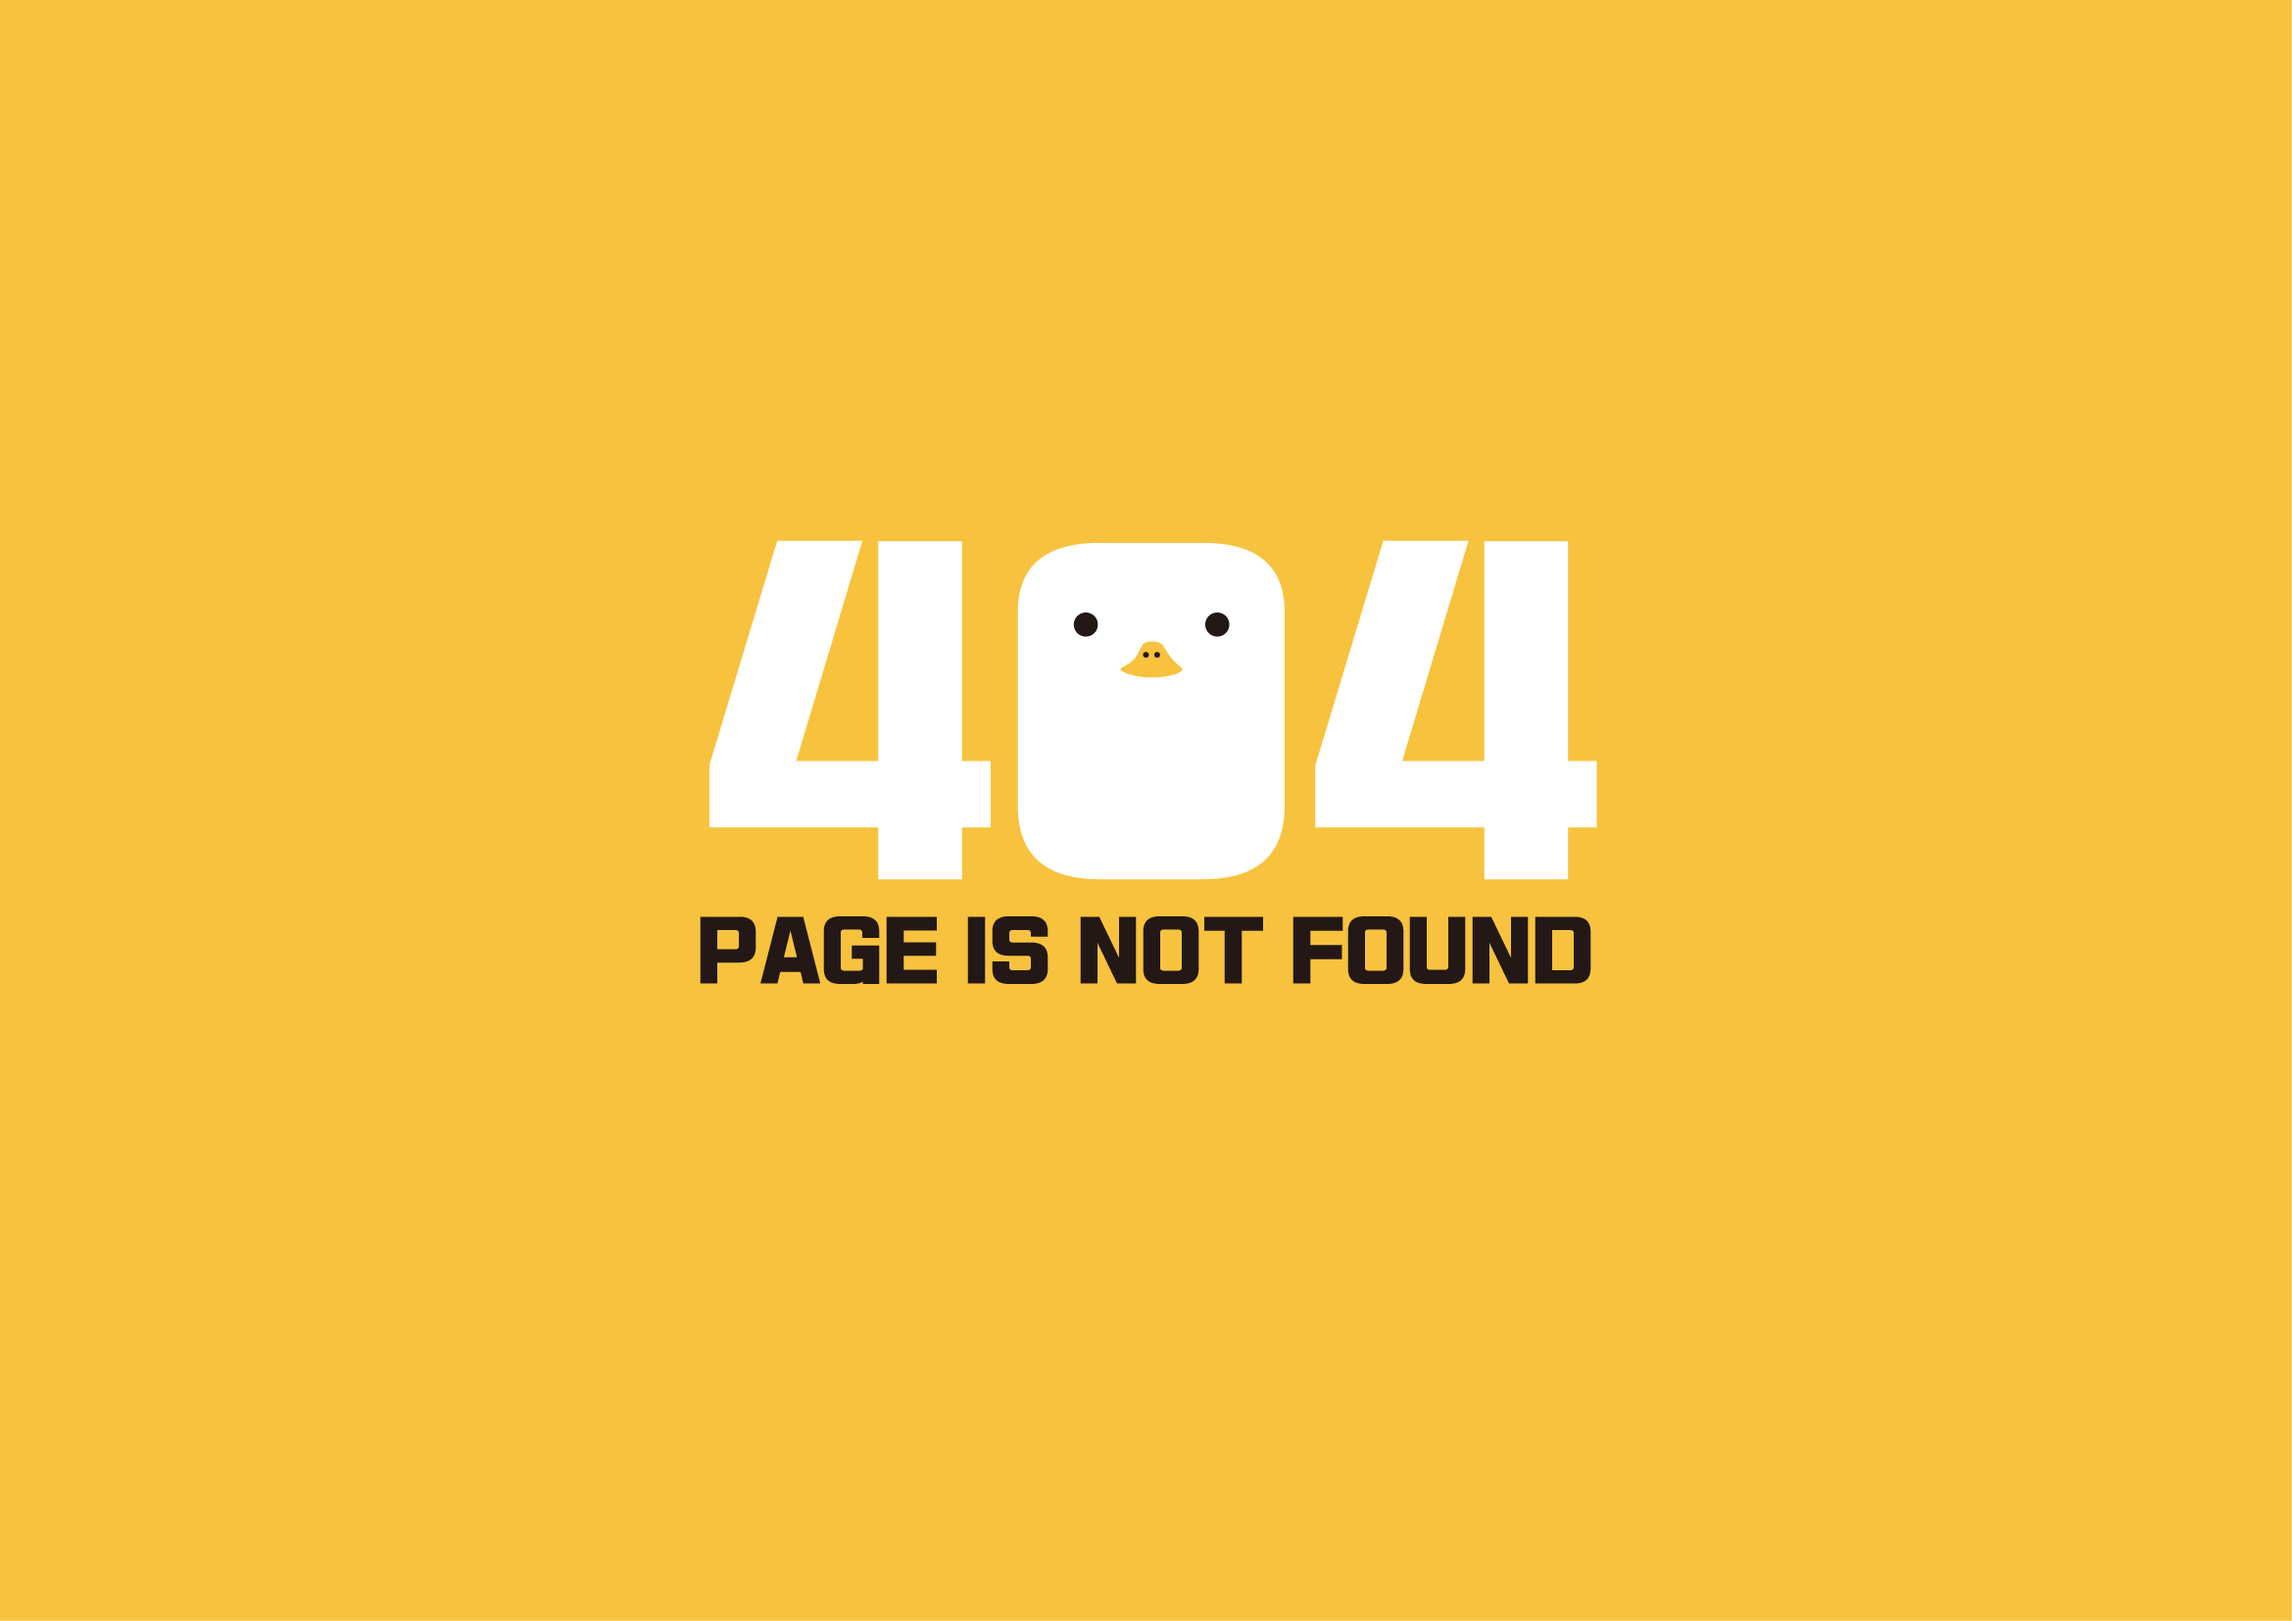
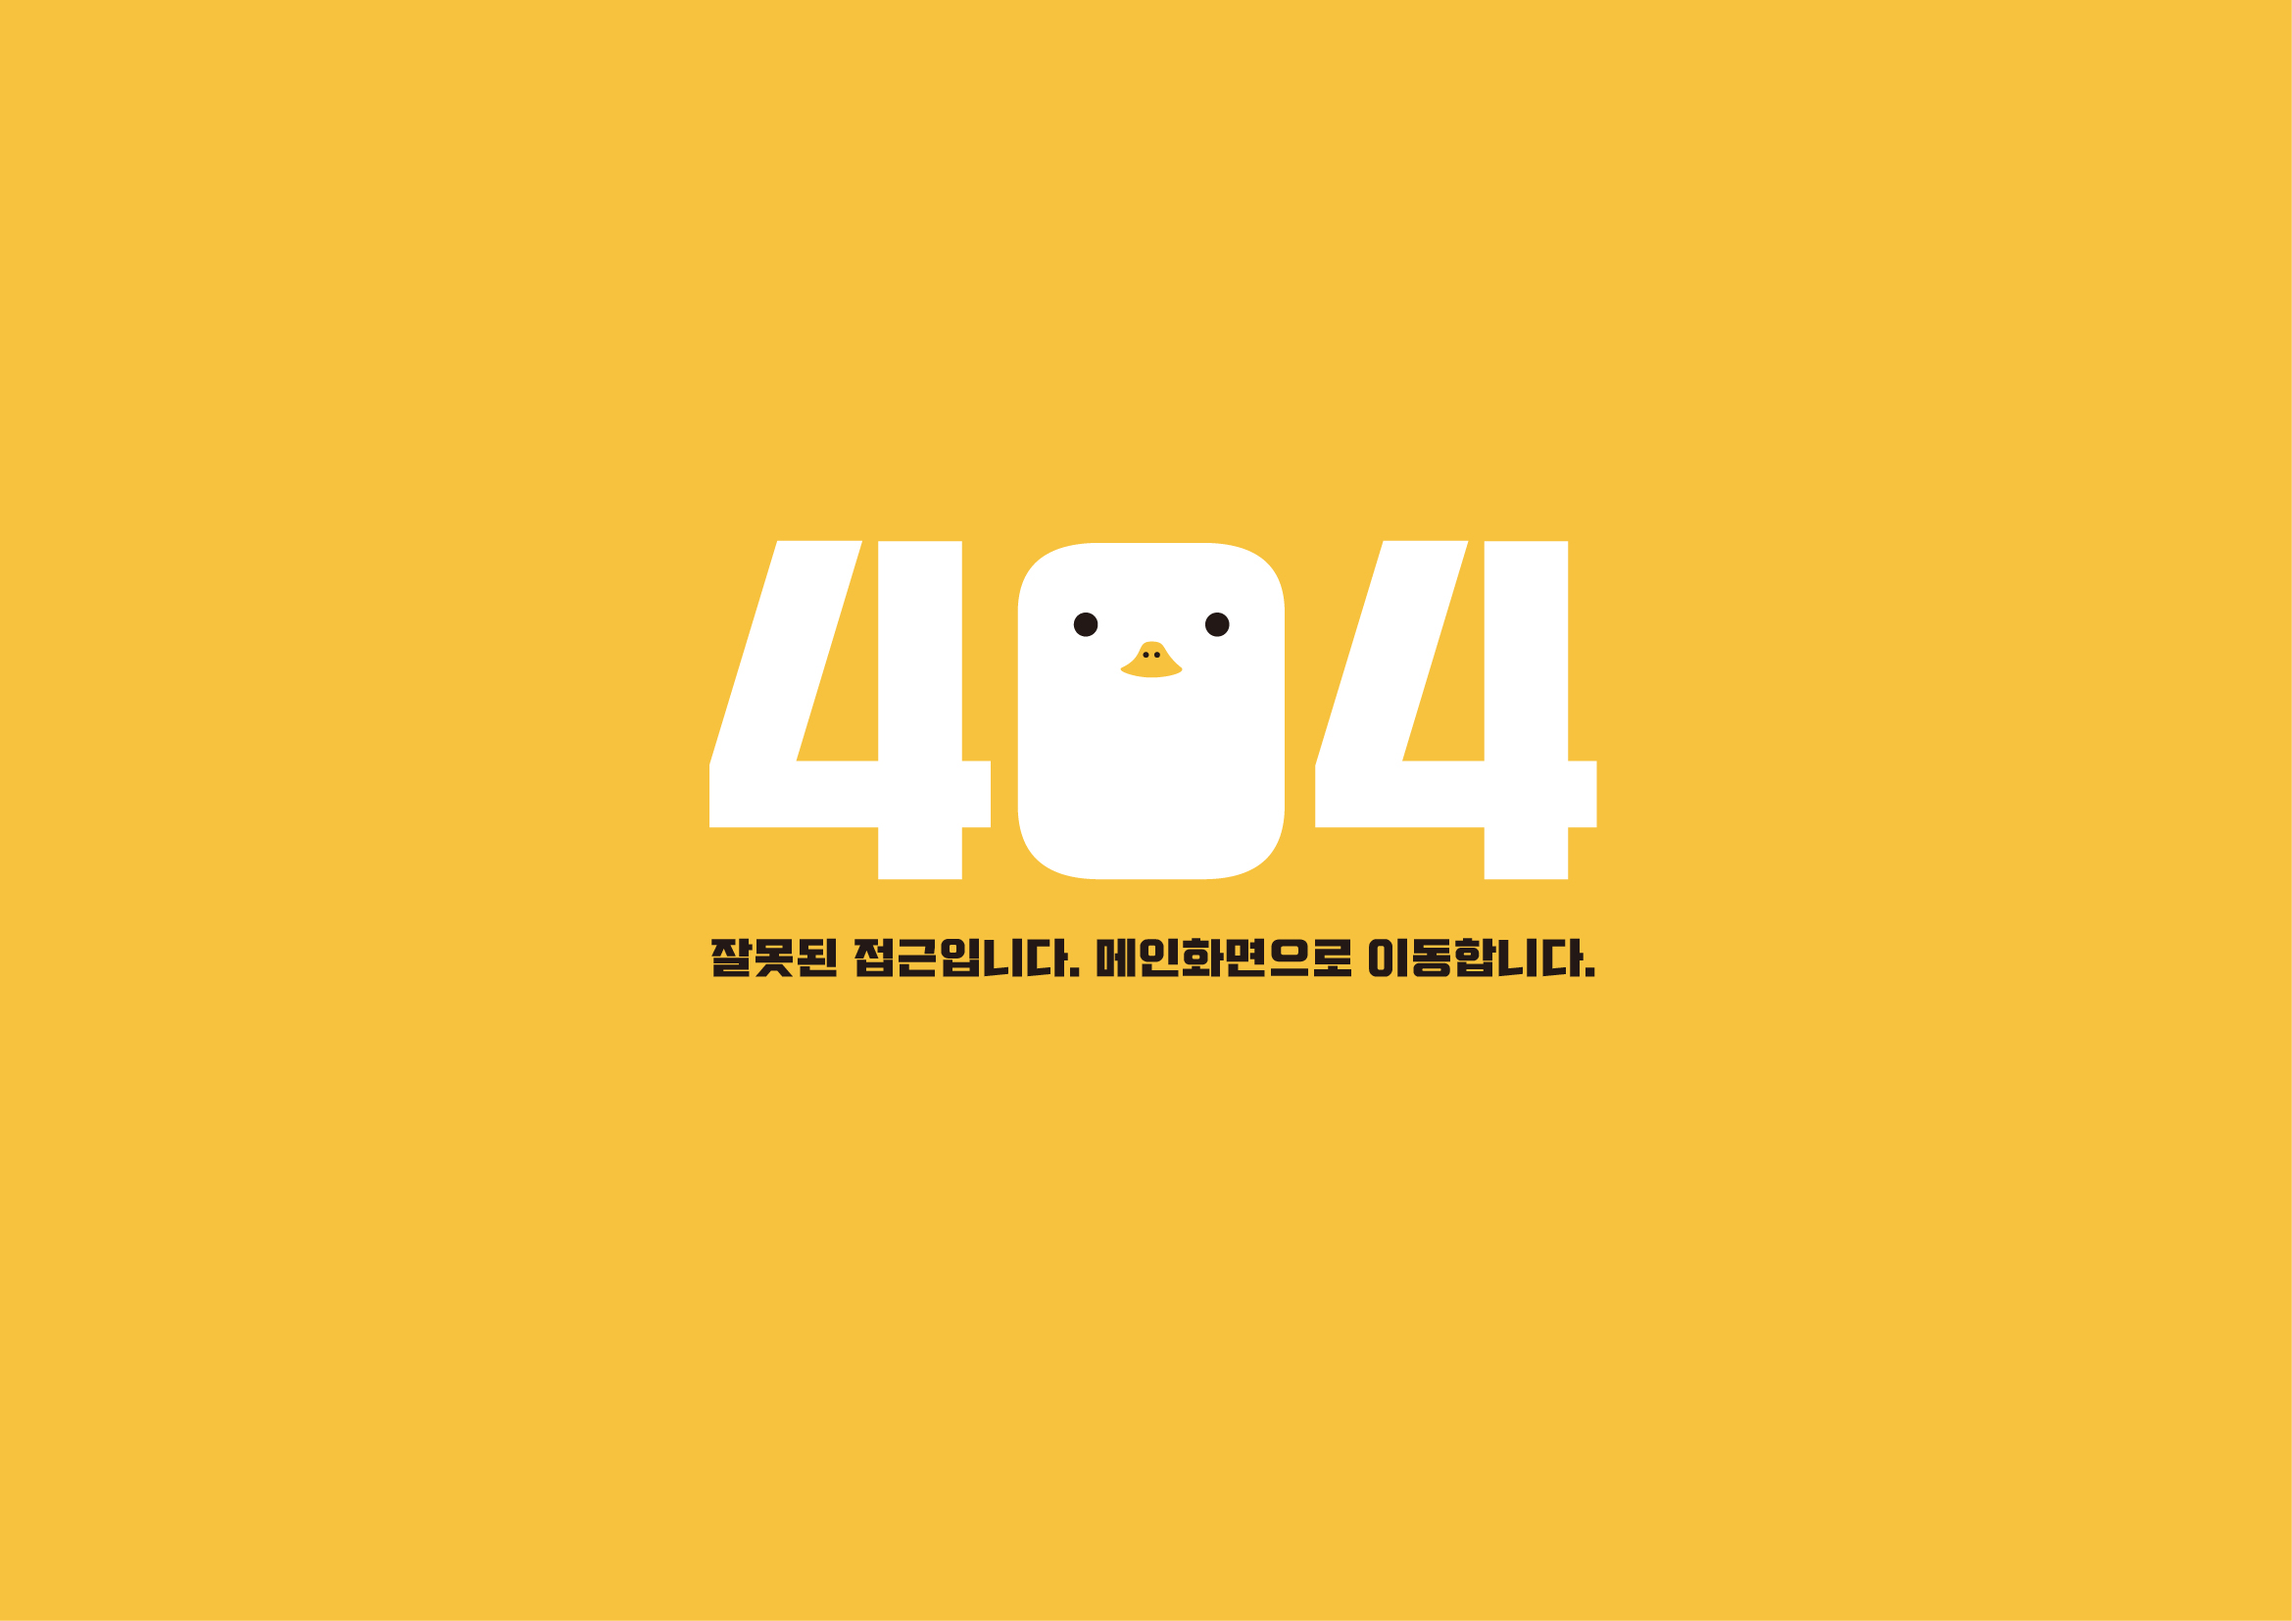
:bug: fix login/logout access problem
로그인/로그아웃 시에 페이지 직접접근 문제 해결

Changed region(s): [[0.2809, 0.555, 0.7178, 0.6167]]

diff --git a/src/chat/ChatBot.js b/src/chat/ChatBot.js
@@ -1,9 +1,11 @@
 import React, { Component } from 'react';
 import { Button, Input, Row, Col } from 'antd';
+import { BrowserRouter as Redirect, withRouter } from 'react-router-dom';
+
 import BotMsg from './BotMsg';
 import UserMsg from './UserMsg';
 
-export default class ChatBot extends Component {
+class ChatBot extends Component {
   constructor(props) {
     super(props);
     this.state = { chats: [<BotMsg />], input: '' };
@@ -12,7 +14,6 @@ export default class ChatBot extends Component {
   componentDidMount() {
     const { chats } = this.state;
     const userChats = JSON.parse(localStorage.getItem('chats'));
-
     // get prev chats from localStorage & save to the state
     if (chats.length === 1 && userChats !== null) {
       const arr = [];
@@ -69,8 +70,11 @@ export default class ChatBot extends Component {
   }
 
   render() {
+    const { history } = this.props;
+    if (!JSON.parse(localStorage.getItem('isLogin'))) {
+      history.push('/');
+    }
     const { input, chats } = this.state;
-
     return (
       <div>
         <Row type="flex" justify="center">
@@ -105,3 +109,5 @@ export default class ChatBot extends Component {
     );
   }
 }
+
+export default withRouter(ChatBot);

diff --git a/src/App.js b/src/App.js
@@ -40,8 +40,8 @@ export default class App extends Component {
 
   render() {
     const { isLogin } = this.state;
+    // window.alert(isLogin);
     const { Header, Footer, Content } = Layout;
-
     return (
       <Router>
         <Layout>
@@ -77,7 +77,7 @@ export default class App extends Component {
                 <Route
                   path="/singleview"
                   exact
-                  component={() => <SingleView />}
+                  component={() => <SingleView isLogin={isLogin} />}
                 />
 
                 {/* update, delete, read mode */}
@@ -86,7 +86,11 @@ export default class App extends Component {
                   exact
                   component={SingleView}
                 />
-                <Route path="/chatbot" exact component={ChatBot} />
+                <Route
+                  path="/chatbot"
+                  exact
+                  component={() => <ChatBot isLogin={isLogin} />}
+                />
               </Switch>
             </div>
             <BackTop />

diff --git a/src/Err404.js b/src/Err404.js
@@ -1,10 +1,27 @@
-import React from 'react';
+import React, { Component } from 'react';
 import errimg from './img/err404.jpg';
 
-export default function Err404() {
-  return (
-    <div>
-      <img src={errimg} alt="err page" style={{ height: '500px' }} />
-    </div>
-  );
+export default class Err404 extends Component {
+  constructor(props) {
+    super(props);
+    this.state = {};
+  }
+
+  componentDidMount() {
+    setTimeout(this.handleNext, 5000);
+  }
+
+  handleNext = () => {
+    console.log(this.props);
+    const { history } = this.props;
+    history.push('/');
+  };
+
+  render() {
+    return (
+      <div>
+        <img src={errimg} alt="err page" style={{ height: '500px' }} />
+      </div>
+    );
+  }
 }

diff --git a/public/index.html b/public/index.html
@@ -35,5 +35,12 @@
       integrity="sha384-JjSmVgyd0p3pXB1rRibZUAYoIIy6OrQ6VrjIEaFf/nJGzIxFDsf4x0xIM+B07jRM"
       crossorigin="anonymous"
     ></script>
+    <!-- <script>
+      window.addEventListener('beforeunload', function(e) {
+        // var confirmationMessage = '\o/';
+        // return confirmationMessage;
+        e.returnValue = '진짜 나감?';
+      });
+    </script> -->
   </body>
 </html>

diff --git a/src/board/SingleView.js b/src/board/SingleView.js
@@ -350,7 +350,10 @@ class SingleView extends Component {
       mode === 'read' ? '삭제' : mode === 'write' ? '작성 취소' : '수정 취소';
     const { Text, Title } = Typography;
     const { TextArea } = Input;
-
+    const { history } = this.props;
+    if (!JSON.parse(localStorage.getItem('isLogin'))) {
+      history.push('/');
+    }
     return (
       <div>
         <div>
